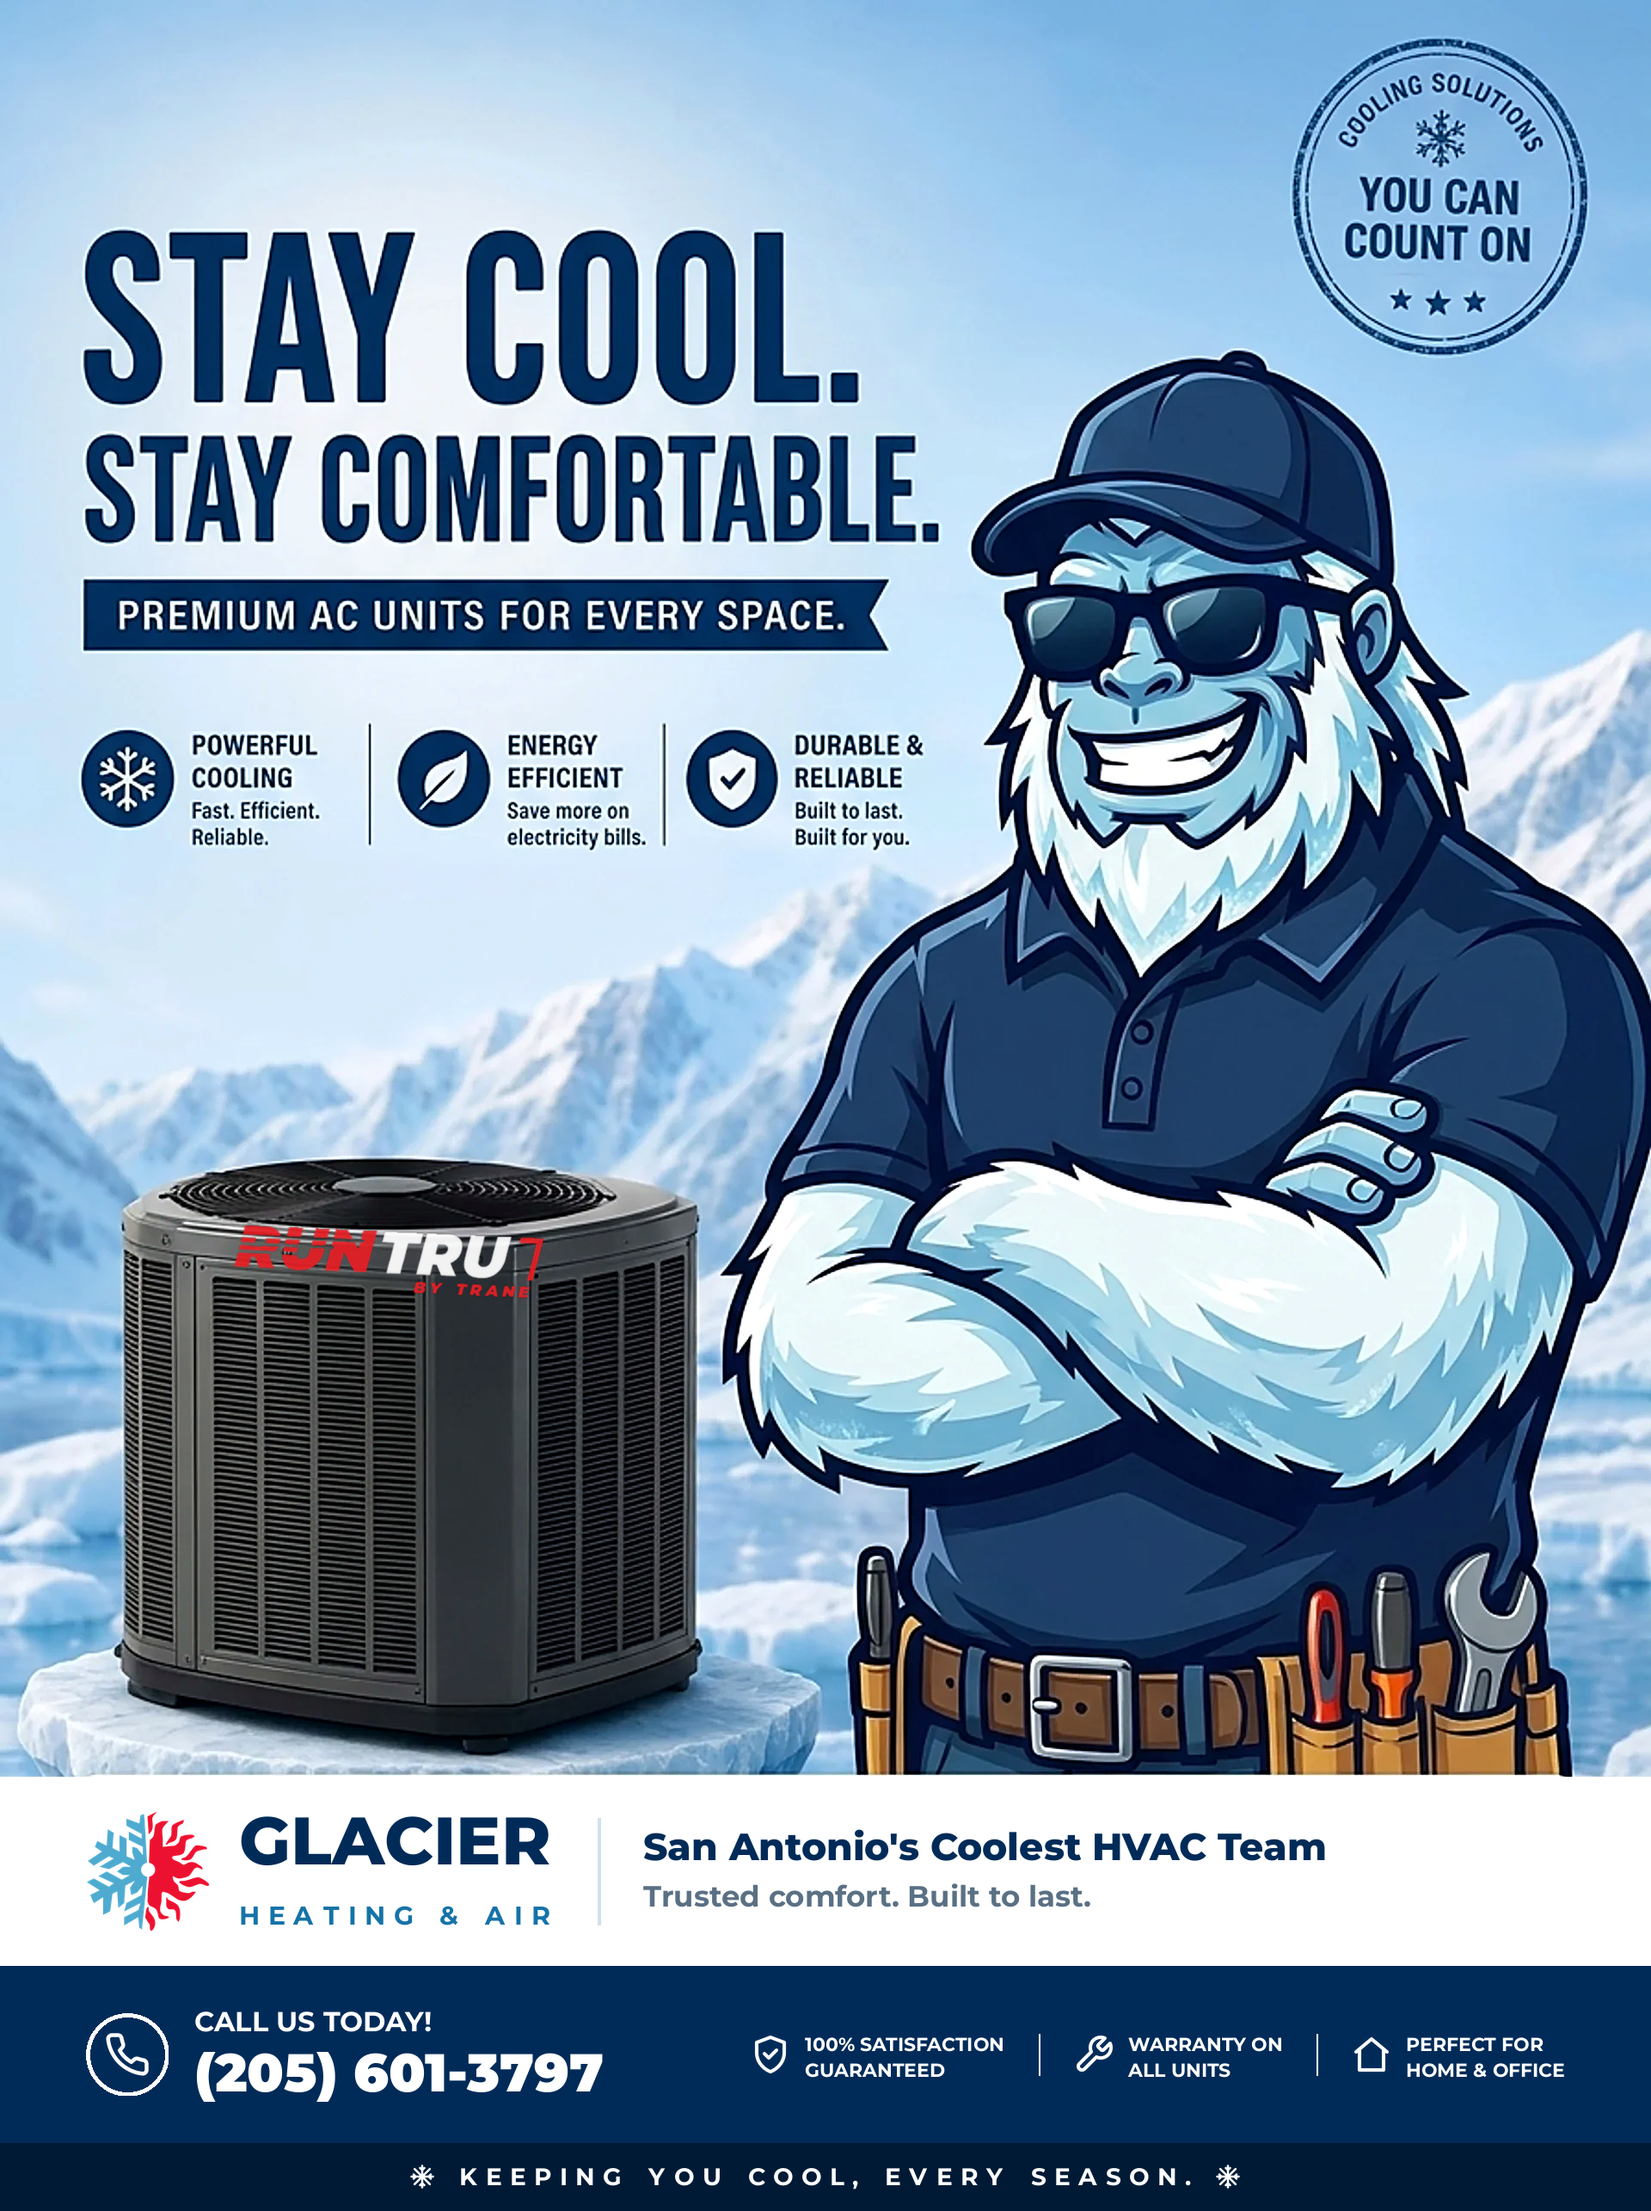
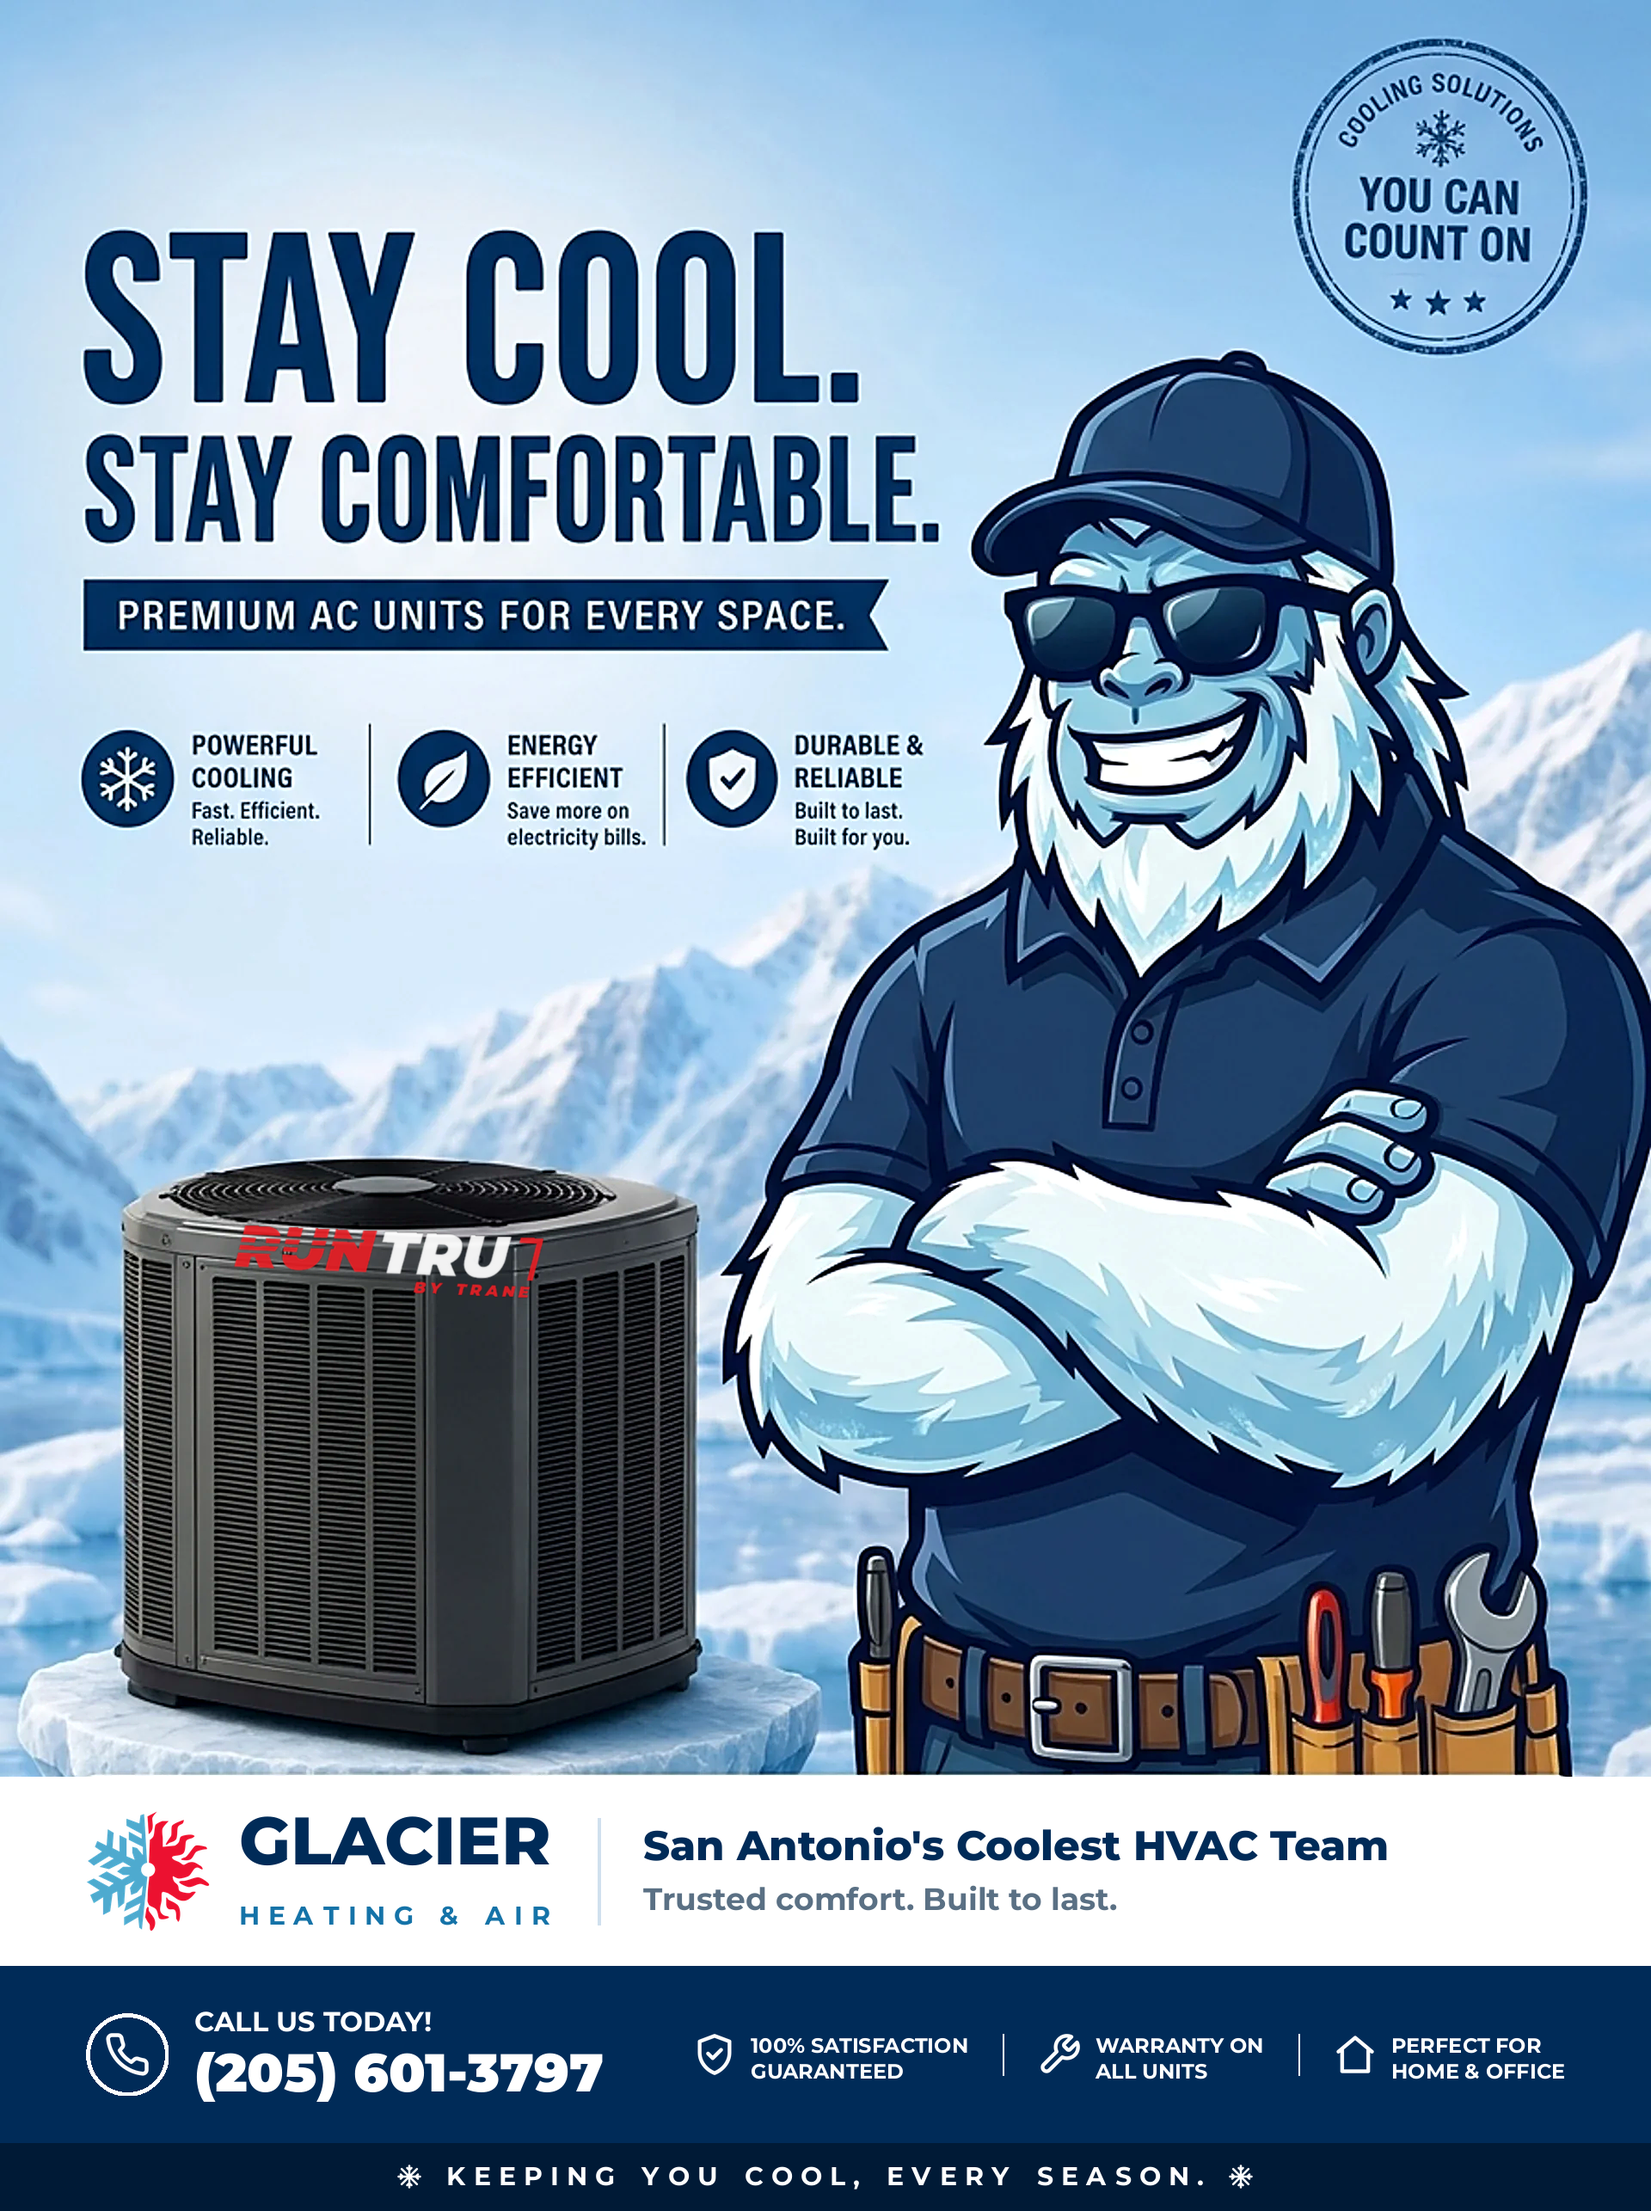
Yeti ad v2: RunTru mark folded into generator, larger bottom-bar type
Claude-Session: https://claude.ai/code/session_0176LFk56ELEVayoECBSNudw

diff --git a/glacier-site/scratchpad/refine_yeti_ad.py b/glacier-site/scratchpad/refine_yeti_ad.py
@@ -17,6 +17,14 @@ art=ImageEnhance.Color(art).enhance(1.05)
 
 img=Image.new("RGBA",(W,H),(255,255,255,255))
 img.paste(art,(0,0))
+
+# RunTru by Trane mark, printed on the unit's metal (perspective nudge + soft blend)
+rt=Image.open("scratchpad/runtru-mark.png").convert("RGBA")
+rh=70; rw=int(rt.width*rh/rt.height)
+rt=rt.resize((rw,rh),Image.LANCZOS).rotate(-2.5,resample=Image.BICUBIC,expand=True)
+rt=rt.filter(ImageFilter.GaussianBlur(0.6))
+a=rt.getchannel("A").point(lambda v:int(v*0.94)); rt.putalpha(a)
+img.alpha_composite(rt,(266,1424))
 d=ImageDraw.Draw(img,"RGBA")
 
 def T(t,font):
@@ -47,8 +55,8 @@ for c,w_ in zip(sub,widths):
     xx+=w_+extra
 dvx=gx+gw+56
 d.line([(dvx,BAR1_T+48),(dvx,BAR1_B-48)],fill=(208,224,238,255),width=4)
-d.text((dvx+52,bcy-56),"San Antonio's Coolest HVAC Team",font=f("ExtraBold",44),fill=NAVY)
-d.text((dvx+52,bcy+8),"Trusted comfort. Built to last.",font=f("Bold",34),fill=SLATE)
+d.text((dvx+52,bcy-60),"San Antonio's Coolest HVAC Team",font=f("ExtraBold",48),fill=NAVY)
+d.text((dvx+52,bcy+10),"Trusted comfort. Built to last.",font=f("Bold",36),fill=SLATE)
 
 # ---------- 3) navy CTA bar: 2286 -> 2492 ----------
 BAR2_T,BAR2_B=2286,2492
@@ -69,8 +77,8 @@ items=[("shield","100% SATISFACTION","GUARANTEED"),
        ("wrench","WARRANTY ON","ALL UNITS"),
        ("home","PERFECT FOR","HOME & OFFICE")]
 def ic(name,size): return Image.open(f"scratchpad/ic-{name}.png").convert("RGBA").resize((size,size),Image.LANCZOS)
-ICO=48; IG=16; DIV=40
-fs_=22
+ICO=52; IG=16; DIV=40
+fs_=24
 while fs_>=16:
     ft=f("Bold",fs_)
     widths=[ICO+IG+max(T(l1,ft)[0],T(l2,ft)[0]) for _,l1,l2 in items]
@@ -92,7 +100,7 @@ for k,(icn,l1,l2) in enumerate(items):
 # ---------- 4) sign-off strip: 2492 -> H ----------
 d.rectangle([0,BAR2_B,W,H],fill=DEEP)
 line="KEEPING YOU COOL, EVERY SEASON."
-fl=f("Bold",28); TRK=9
+fl=f("Bold",30); TRK=9
 lw=sum((T(c,fl)[0]+TRK) if c!=' ' else 22 for c in line)-TRK
 scy=(BAR2_B+H)//2
 sx=(W-lw)//2
